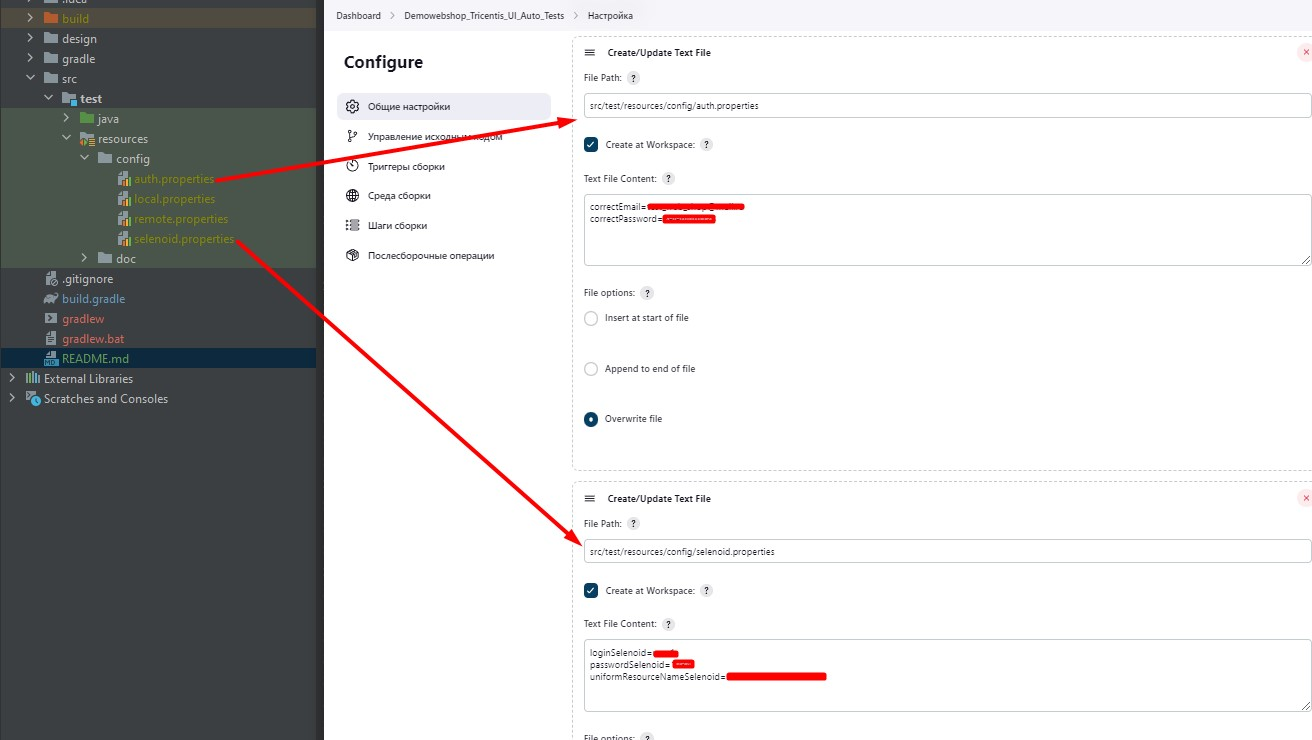
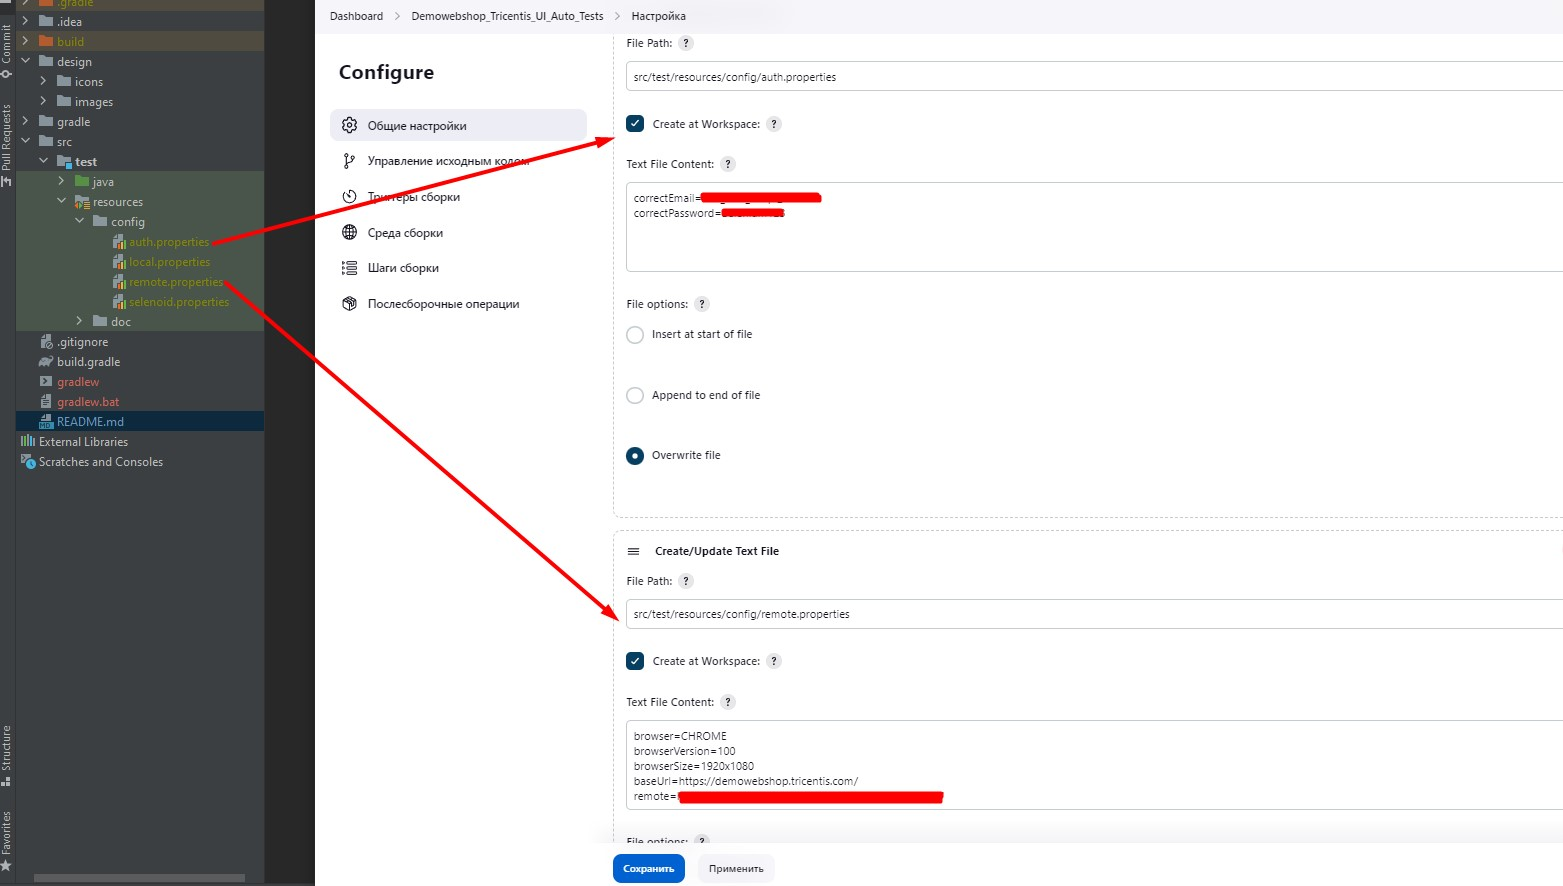
added remote and  local run

Changed region(s): [[0.0, 0.0, 0.6562, 1.0], [0.4062, 0.3419, 0.5312, 0.4662], [0.375, 0.4973, 0.5312, 0.5284]]

diff --git a/README.md b/README.md
@@ -14,6 +14,8 @@ Java11, Gradle, IntelliJ IDEA, Selenide, Selenoid, JUnit5, Jenkins, Allure Repor
 
 ### Параметры сборки
 #### Конфиденциальные данные размещены в файлах properties и вызываются в настройках Jenkins
+####Локальный запуск: gradle clean test -DlocalOrRemote=local
+####Удаленный запуск: gradle clean test -DlocalOrRemote=remote
 ![Confidential_data1](./design/images/Confidential_data.jpg)
 
 ## Настроена интеграция с Allure Report
